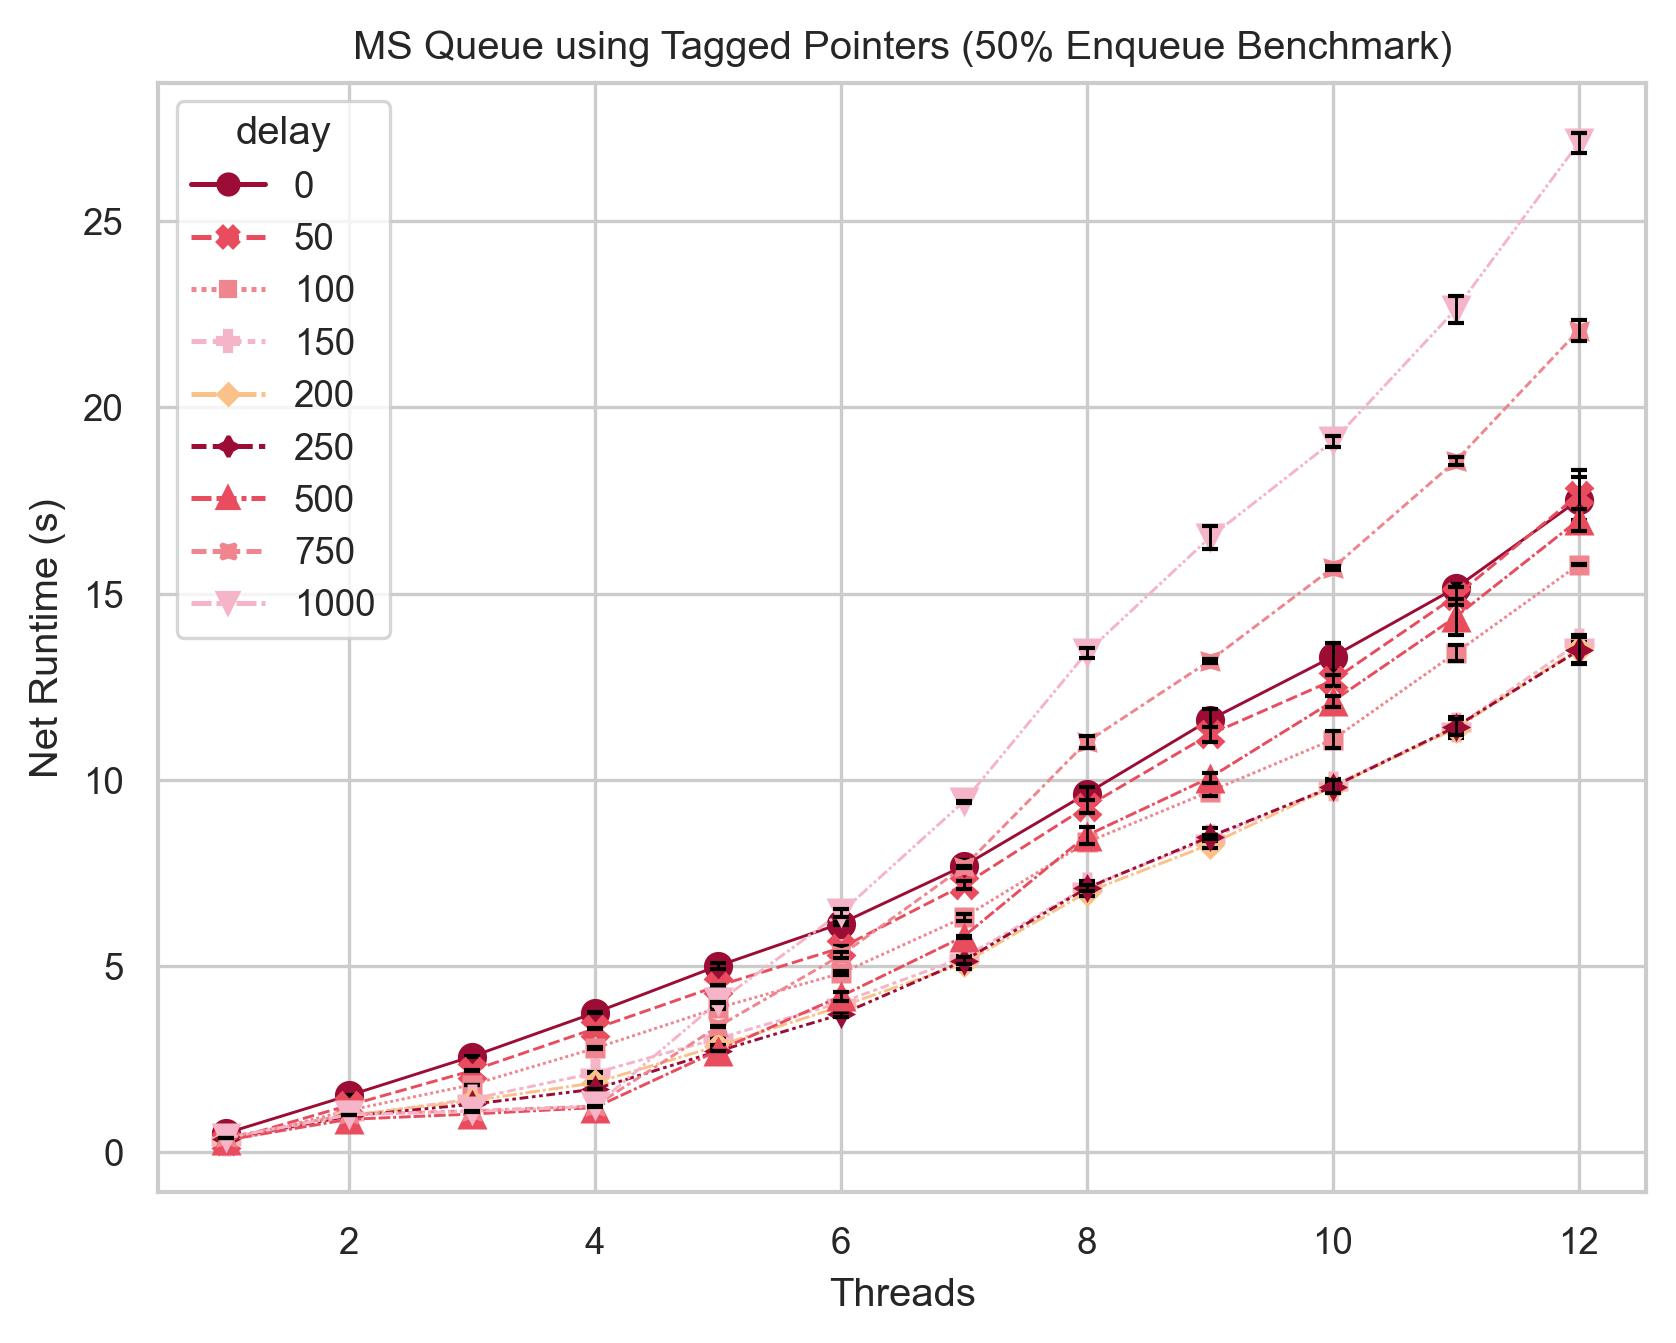
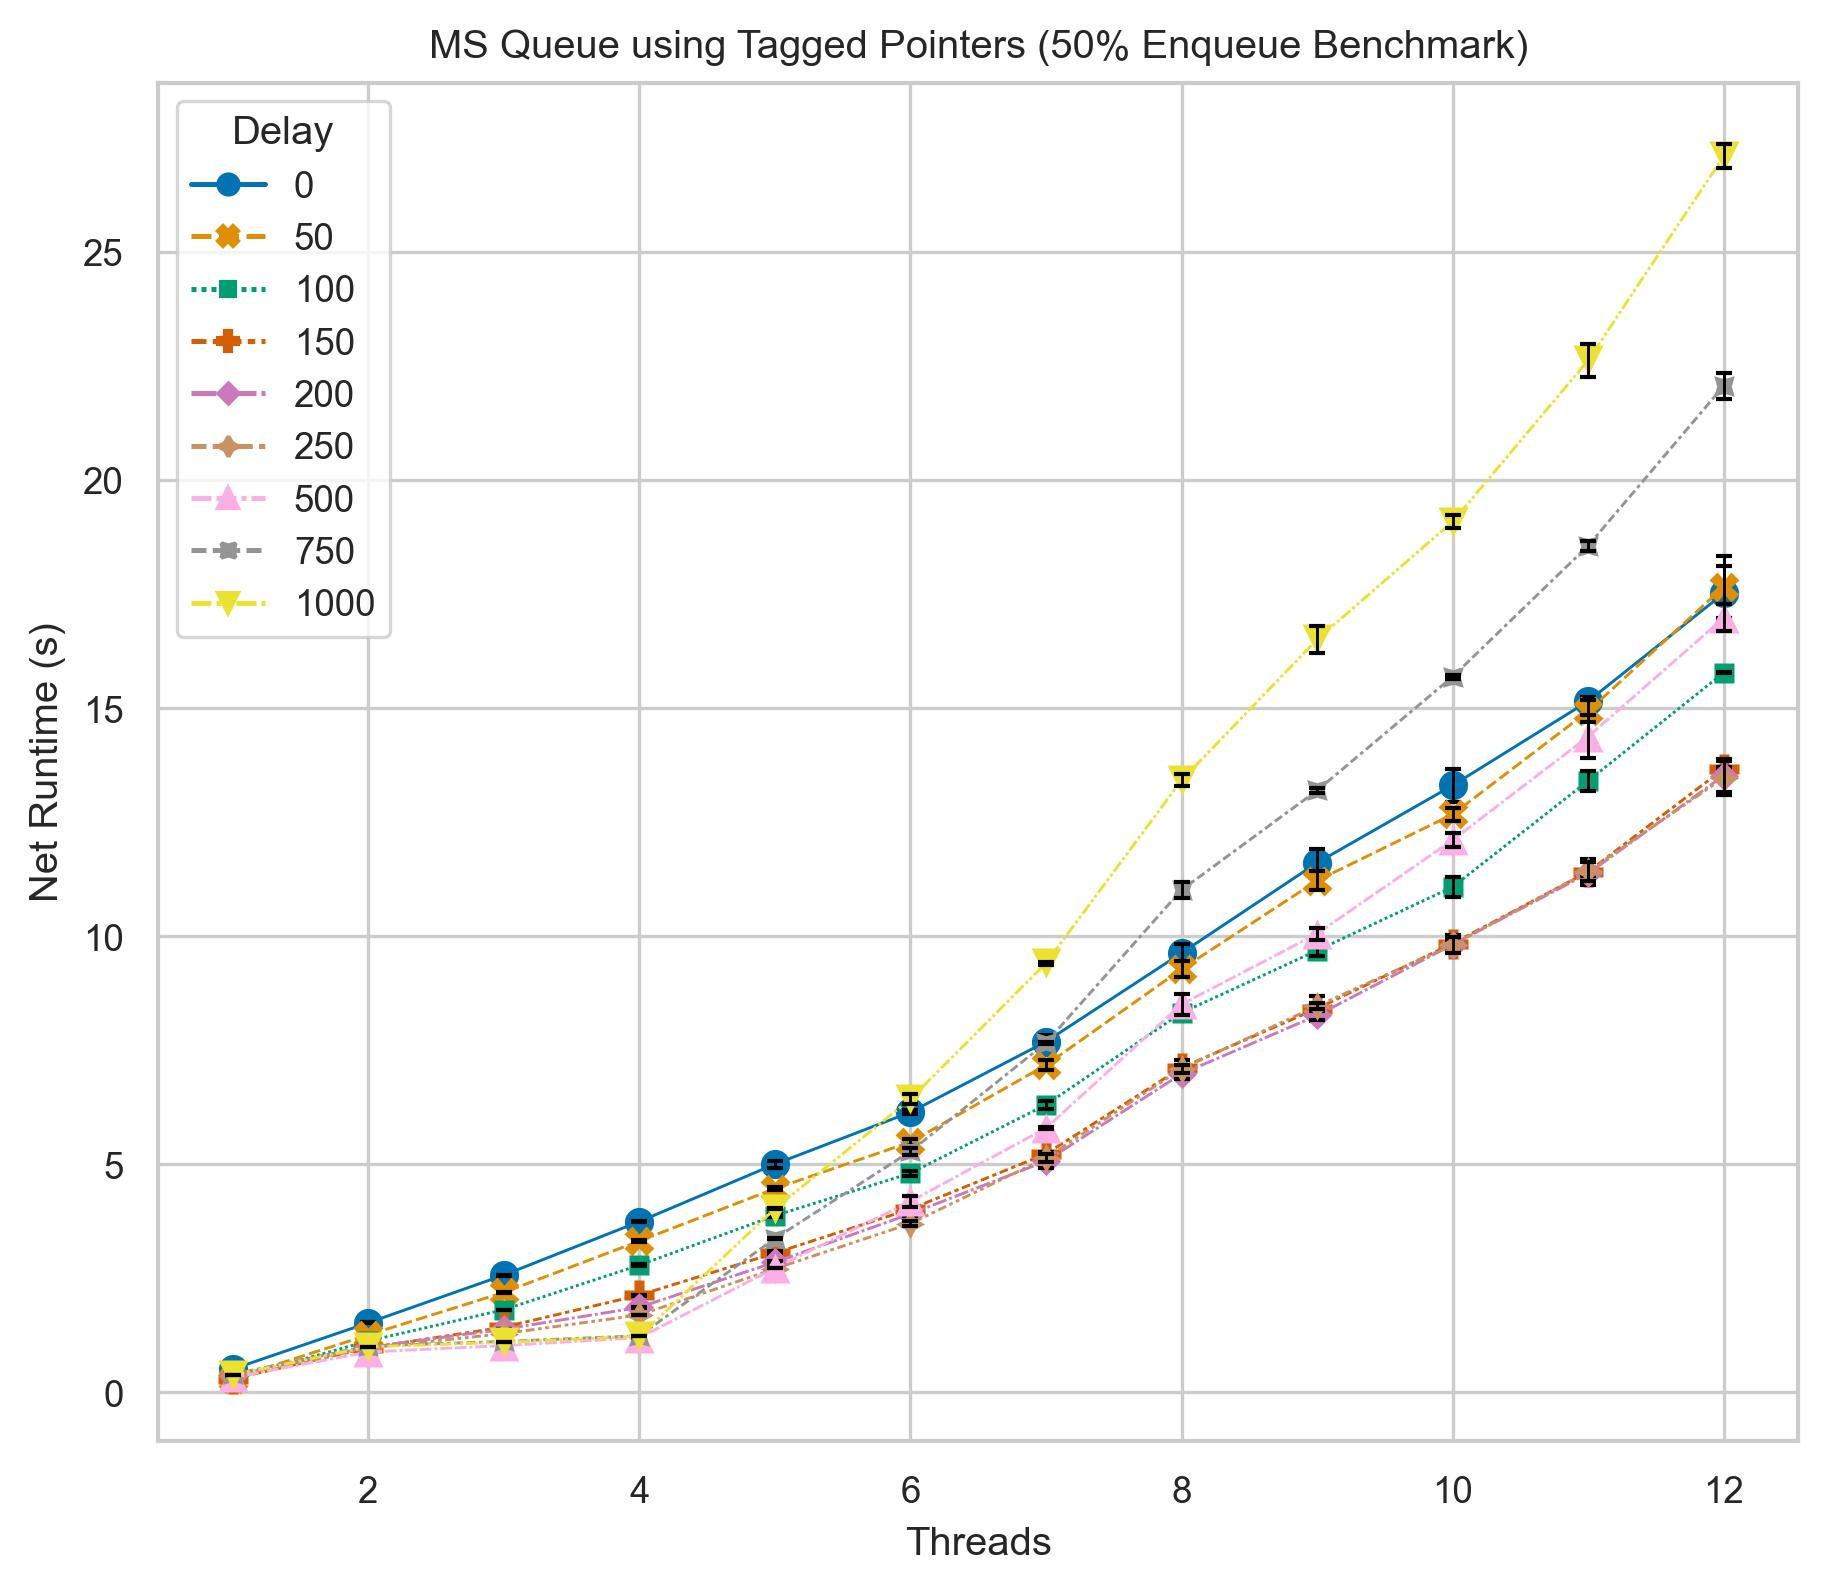
Add plot_dwcas_relative_performance

diff --git a/src/utils/plot.py b/src/utils/plot.py
@@ -3,6 +3,7 @@ Automatically generates plots for the results obtained in the root directory.
 """
 
 import os
+from typing import Union
 import pandas as pd
 import seaborn as sns
 import matplotlib.pyplot as plt
@@ -14,6 +15,8 @@ import numpy as np
 IMAGES_PATH = "src/utils/images/"
 MARKER_SIZE = 7
 LINE_WIDTH = 0.7
+COL_WRAP = 4
+SUPTITLE_Y = 1.02
 
 os.makedirs(IMAGES_PATH, exist_ok=True)
 
@@ -27,13 +30,17 @@ err_style = {
 if PLOT_CONTEXT != "poster":
     err_style["err_kws"] = {"linewidth": LINE_WIDTH, "capsize": 2, "ecolor": "k"}
 
-sns_kwargs = {
+sns_base_kwargs = {
     "markers": True,
     "dashes": True,
-    "ci": "sd",
     "markeredgecolor": "none",
-    "linewidth": LINE_WIDTH,
+}
+
+sns_kwargs = {
+    **sns_base_kwargs,
     "markersize": MARKER_SIZE,
+    "linewidth": LINE_WIDTH,
+    "ci": "sd",
     **err_style,
 }
 
@@ -44,19 +51,27 @@ uom_color_palette = ["#9C0C35", "#E94C5E", "#F08590", "#F5B4C7", "#FAC18A"]
 grid_style = "white" if PLOT_CONTEXT == "poster" else "whitegrid"
 
 sns.set_style(grid_style)
-sns.set_context("paper")
-sns.set_palette(sns.color_palette(uom_color_palette))
+sns.set_context(PLOT_CONTEXT)
+# sns.set_palette(sns.color_palette(uom_color_palette))
+sns.set_palette("colorblind")
 
 
 def set_legend_location(ax: plt.Axes):
     if PLOT_CONTEXT == "poster":
         sns.move_legend(ax, "best", fontsize="small")
+        return
 
-
-def save_plot(ax: plt.Axes, output_file_name: str, plot_title: str, dpi: int):
-    ax.set(title=plot_title, **labels_kwargs)
-    ax.get_figure().savefig(output_file_name, dpi=dpi, bbox_inches="tight")
-    ax.get_figure().clf()
+def save_plot(
+    ax: Union[plt.Axes, sns.FacetGrid],
+    output_file_name: str,
+    dpi: int,
+):
+    fig = ax.get_figure() if ax is plt.Axes else ax.figure
+    fig.savefig(output_file_name, dpi=dpi, bbox_inches="tight")
+    fig.clf()
+    # Set figure to matplotlib default size to prevent figure size adjustments
+    # from carrying on to independent figures.
+    fig.set(size_inches=(6.4, 4.8))
 
 
 def plot_grouped_results(
@@ -78,29 +93,28 @@ def plot_grouped_results(
     """
 
     df = pd.read_csv(f"{input_file_name}.csv")
-    delays = df["delay"].unique()
-    for delay in delays:
-        individual_delay_df = df.query(f"delay == {str(delay)}").sort_values(by="name")
-        palette = sns.color_palette(n_colors=len(df["name"].unique()))
+    palette = sns.color_palette(n_colors=len(df["name"].unique()))
+    ax = sns.relplot(
+        data=df,
+        x="threads",
+        y="net_runtime_s",
+        col="delay",
+        style="name",
+        hue="name",
+        kind="line",
+        palette=palette,
+        col_wrap=3,
+        **sns_kwargs,
+    )
 
-        ax = sns.lineplot(
-            data=individual_delay_df,
-            x="threads",
-            y="net_runtime_s",
-            style="name",
-            hue="name",
-            palette=palette,
-            **sns_kwargs,
-        )
+    temp_plot_title = plot_title.replace("(", "").replace(")", "")
 
-        temp_plot_title = plot_title.replace("(", "").replace(")", "")
-        temp_plot_title = f"{temp_plot_title} ({delay}ns delay)"
+    ax.legend.set_title("Queue")
+    ax.figure.suptitle(temp_plot_title, y=SUPTITLE_Y)
 
-        ax.get_legend().set_title("Queue")
+    set_legend_location(ax)
 
-        set_legend_location(ax)
-
-        save_plot(ax, f"{IMAGES_PATH}/{output_file_name}_{delay}.jpg", temp_plot_title, dpi)
+    save_plot(ax, f"{IMAGES_PATH}/{output_file_name}.jpg", dpi)
 
 
 def plot_individual_results(
@@ -133,13 +147,17 @@ def plot_individual_results(
             **sns_kwargs,
         )
 
+        title = f"{queue_name} {plot_title}"
+        ax.get_legend().set_title("Delay")
+        ax.set_title(title)
+        ax.set(**labels_kwargs)
         set_legend_location(ax)
 
         cleaned_queue_name = str.lower(queue_name).replace(" ", "_")
 
         file_path = f"{IMAGES_PATH}/{output_file_name}_{cleaned_queue_name}.jpg"
-        title = f"{queue_name} {plot_title}"
-        save_plot(ax, file_path, title, dpi)
+
+        save_plot(ax, file_path, dpi)
 
 
 def plot_coefficient_of_variance(
@@ -154,26 +172,68 @@ def plot_coefficient_of_variance(
         lambda x: (x["stdev"] * 100) / x["mean"], axis=1
     )
 
-    ax = sns.catplot(
+    ax: sns.FacetGrid = sns.catplot(
         x="delay",
         y="coeff_of_var",
         col="threads",
         hue="name",
         data=df_agg,
         kind="bar",
-        col_wrap=4,
+        palette=sns.color_palette(n_colors=len(df["name"].unique())),
+        col_wrap=COL_WRAP,
     )
+
+    title = "Coefficient of Variance of Tests $\\frac{\\sigma}{\\mu}$ " + plot_title
 
     ax.set_xlabels("Delay")
     ax.set_ylabels("Coefficient of Variance (%)")
-    ax.figure.suptitle(
-        "Coefficient of Variance of Tests $\\frac{\\sigma}{\\mu}$ " + plot_title
+    ax.figure.suptitle(title, y=SUPTITLE_Y)
+
+    save_plot(ax, f"{IMAGES_PATH}/{output_file}_cov.jpg", dpi)
+
+
+def plot_dwcas_relative_performance(
+    input_file: str, output_file: str, plot_title: str, dpi: int = 300
+):
+    df = pd.read_csv(f"{input_file}.csv")
+    df_group = (
+        df.groupby(by=["name", "threads", "delay"], as_index=False)["net_runtime_s"]
+        .mean()
+        .sort_values(by="name", ascending=False)
     )
-    ax.savefig(f"{IMAGES_PATH}/{output_file}_cov.jpg")
+    nonblocking_queue_names = ["MS Queue", "Valois Queue", "Baskets Queue"]
+    accumulated_df = pd.DataFrame()
+    for name in nonblocking_queue_names:
+        temp_df = df_group.loc[df_group["name"].str.contains(name)]
+        temp_df = temp_df.groupby(by=["threads", "delay"], as_index=False).agg(
+            {"net_runtime_s": lambda x: (x.iloc[0] / x.iloc[1])}
+        )
+        temp_df["name"] = name
+        accumulated_df = pd.concat([accumulated_df, temp_df])
+    ax = sns.relplot(
+        x="threads",
+        y="net_runtime_s",
+        hue="delay",
+        style="delay",
+        col="name",
+        kind="line",
+        data=accumulated_df,
+        palette=sns.color_palette(n_colors=len(df["delay"].unique())),
+        **sns_base_kwargs,
+    )
+    ax.figure.suptitle(
+        f"Relative Performance {plot_title}", y=SUPTITLE_Y
+    )
+    ax.set(xlabel="Threads", ylabel="Ratio of Tagged Pointer runtime to DWCAS runtime")
+    save_plot(
+        ax,
+        f"{IMAGES_PATH}/{output_file}_rel_perf.jpg",
+        dpi,
+    )
 
 
 ENQUEUE_DEQUEUE_TITLE = "(Pairwise Benchmark)"
-ENQEUUE_DEQUEUE_FILE_NAME = "enqueue_dequeue_results"
+ENQUEUE_DEQUEUE_FILE_NAME = "enqueue_dequeue_results"
 P_ENQUEUE_DEQUEUE_TITLE = "(50% Enqueue Benchmark)"
 P_ENQUEUE_DEQUEUE_FILE_NAME = "p_enqueue_dequeue_results"
 
@@ -185,15 +245,21 @@ plot_grouped_results(
     "p_grouped_enqueue_dequeue",
     P_ENQUEUE_DEQUEUE_TITLE,
 )
+plot_coefficient_of_variance(
+    "enqueue_dequeue_results", "enqueue_dequeue", ENQUEUE_DEQUEUE_TITLE
+)
+plot_coefficient_of_variance(
+    "p_enqueue_dequeue_results", "p_enqueue_dequeue", P_ENQUEUE_DEQUEUE_TITLE
+)
 plot_individual_results(
     "enqueue_dequeue_results", "enqueue_dequeue", ENQUEUE_DEQUEUE_TITLE
 )
 plot_individual_results(
     "p_enqueue_dequeue_results", "p_enqueue_dequeue", P_ENQUEUE_DEQUEUE_TITLE
 )
-plot_coefficient_of_variance(
-    "enqueue_dequeue_results", "enqueue_dequeue", ENQUEUE_DEQUEUE_TITLE
+plot_dwcas_relative_performance(
+    ENQUEUE_DEQUEUE_FILE_NAME, "enqueue_dequeue", ENQUEUE_DEQUEUE_TITLE
 )
-plot_coefficient_of_variance(
-    "p_enqueue_dequeue_results", "p_enqueue_dequeue", P_ENQUEUE_DEQUEUE_TITLE
+plot_dwcas_relative_performance(
+    P_ENQUEUE_DEQUEUE_FILE_NAME, "p_enqueue_dequeue", P_ENQUEUE_DEQUEUE_TITLE
 )
